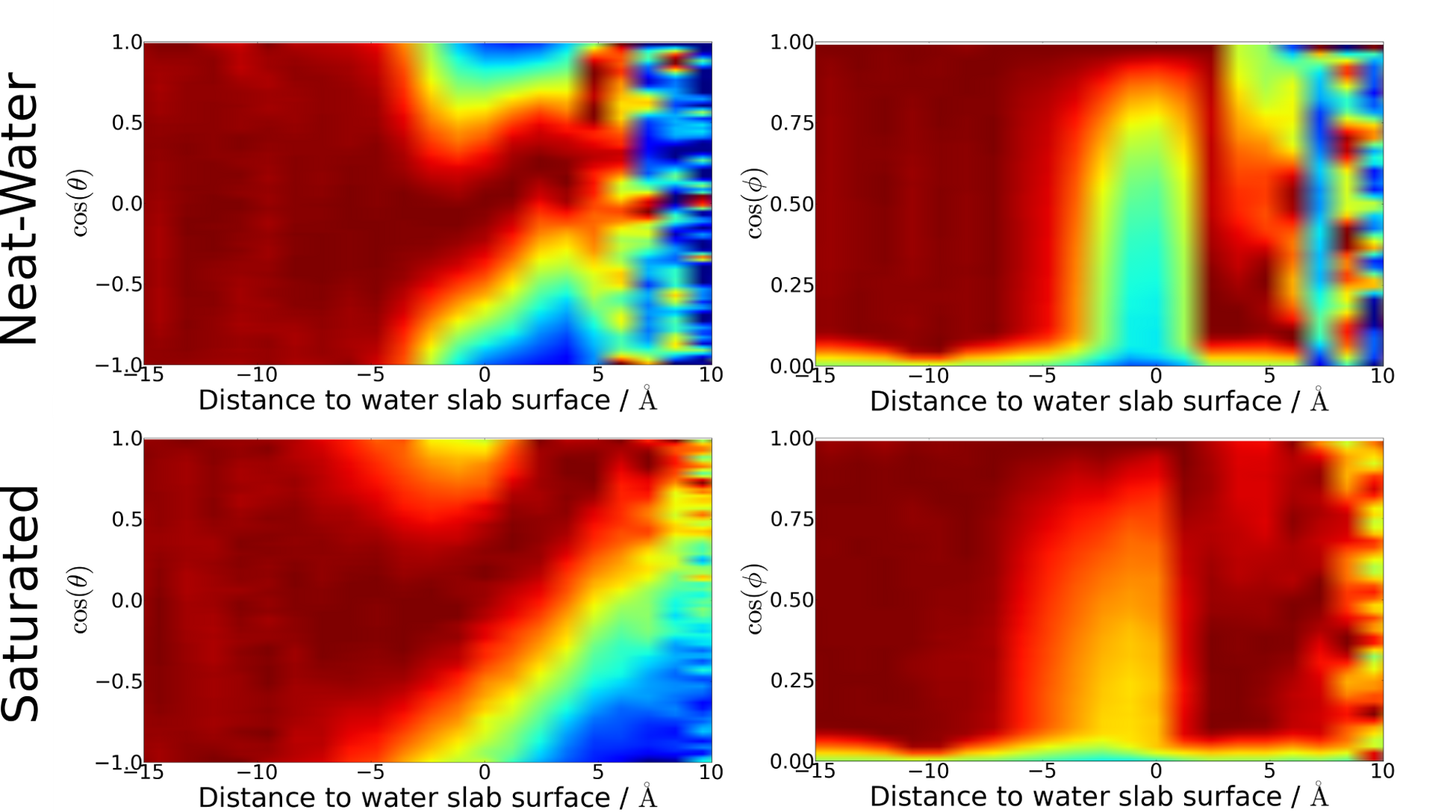
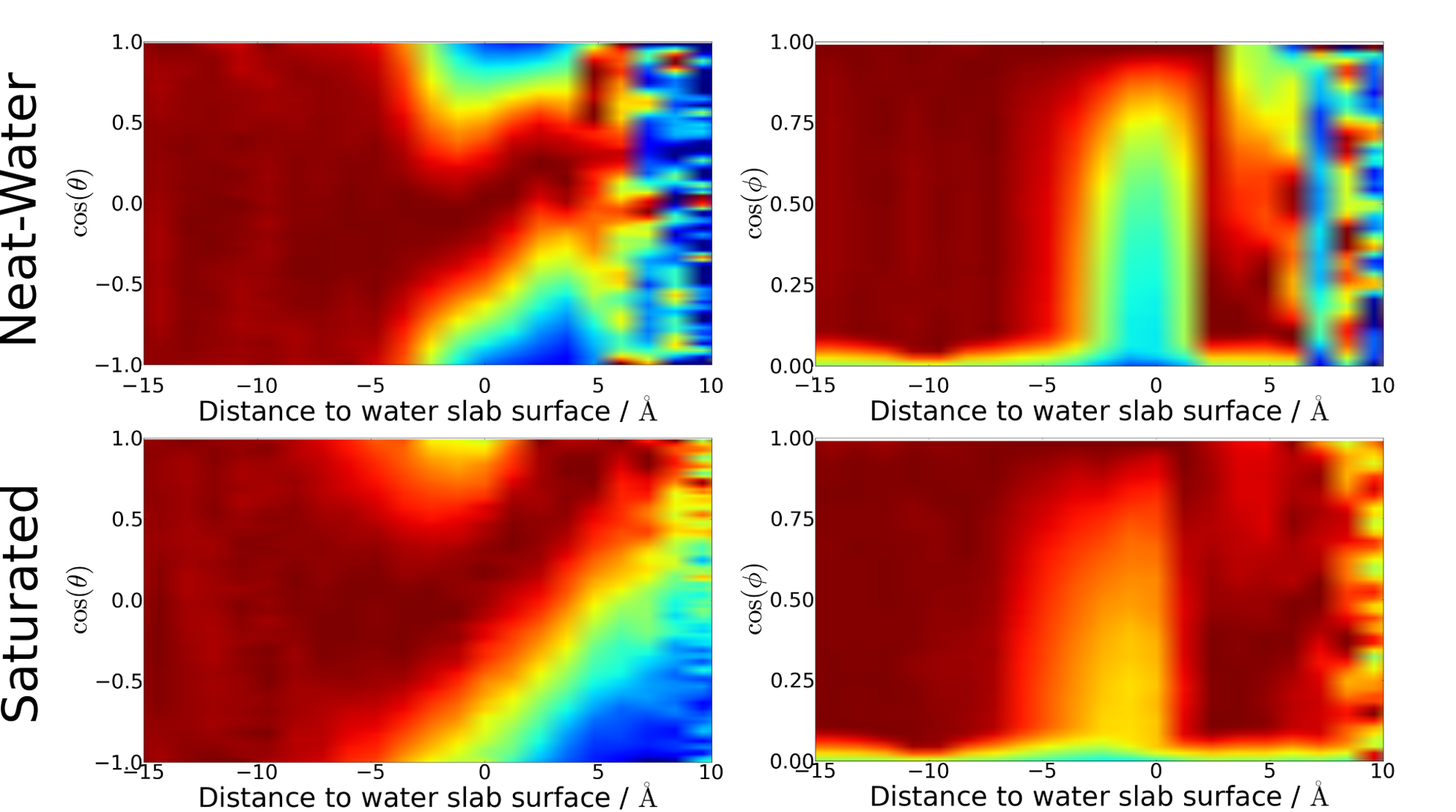
fixed x-axis location on figures. Redid conclusions. Minor edits for the rest.

diff --git a/Conclusions.tex b/Conclusions.tex
@@ -2,11 +2,12 @@
 
 Gaseous adsorption on solid surfaces has been extensively studied over the past few decades with much learned about how molecular geometry and orientation of the adsorbate are influenced by the proximity of the solid slab.  For a liquid surface where the surface slab is no longer rigid but has molecules with considerable freedom of movement, the surface and approaching gas molecules can be active partners in attaining the optimal geometry and orientation necessary for adsorption and subsequent uptake.    And unlike the solid surface defined by a sharp plane, the interfacial region for the liquid-gas system is much broader, extends on either side of a defined center plane, and is host to a broad distribution of gas-liquid molecular geometries and orientations that change as the gas molecules transit through the interfacial region into the bulk liquid.  Although  our current molecular level understanding of  the complex dances that these molecules play in this fluid interfacial region is in its infancy, emerging studies such as these are beginning to provide unique new insights that are key to understanding many  environmentally important processes at aqueous surfaces.
 
-Presented herein are the results of several classical molecular dynamic simulations that focus on understanding how surface water molecules and adsorbing \suldiox~gas molecules twist and turn as the gas transits the interfacial region. The computational studies emulate and expand on the experimental spectroscopic studies from this laboratory which have found \suldiox~surface complexation at a water surface.\cite{Tarbuck2005,Tarbuck2006,Ota2011}  These spectroscopic studies show clear evidence of \suldiox-water surface complexation but details about this surface complex could only be inferred from spectral changes in the surface water spectrum since \suldiox~could not be monitored directly.   These simulations do not have that limitation and hence can provide information about the behavior of both surface partners and in particular, how their proximity influences the orientation behavior of each other.  The orientational information obtained in these simulations are provided via calculated depth profiles which show the molecular distribution of orientations of the two different interfacial molecules throughout the dimensions of the interfacial region.
+Presented herein are the results of several classical molecular dynamic simulations that focus on understanding how surface water molecules and adsorbing \suldiox~gas molecules twist and turn as the gas adsorbs and transits the interfacial region. The computational studies emulate and expand on the experimental spectroscopic studies from this laboratory which have found \suldiox~surface complexation at a water surface.\cite{Tarbuck2005,Tarbuck2006,Ota2011}  These spectroscopic studies show clear evidence of \suldiox-water surface complexation but details about this surface complex could only be inferred from spectral changes in the surface water spectrum since \suldiox~could not be monitored directly.   These simulations do not have that limitation and hence can provide information about the behavior of both surface partners and in particular, how their proximity influences the orientation behavior of each other.  The orientational information obtained in these simulations are provided via calculated depth profiles which show the molecular distribution of orientations of the two different interfacial molecules throughout the dimensions of the interfacial region.
 
 The simulations described herein show that gaseous \suldiox~quickly adsorbs to the water surface and continues to bind until a complete surface coverage is reached. Surface waters reorient in the presence of adsorbed \suldiox. The waters at the interface of a neat-water surface tend to lay flatter to the surface than when a saturating layer of \suldiox~is present. The waters interacting with the layer of adsorbed \suldiox~orient more perpendicularly to the interface, and further expose their ``free-OH'' uncoupled bonds for interactions with \suldiox, and hydrate complex formation. Furthermore, we have found that surface waters underneath a blanket layer of adsorbed \suldiox~will penetrate further into the gas phase, allowing for greater mobility of waters away from the aqueous bulk in the presence of \suldiox.
 
-Through these simulations we characterize the orientational behavior of \suldiox~during and after adsorption. Our equilibrium neat-water simulations show that a single \suldiox~molecule, representing a low concentration, has a high surface affinity. At a high \suldiox~concentration in the saturated systems, \suldiox~molecules are also surface active, and are found further out of the water phase than at the lower concentration. These \suldiox~form a bound layer of molecules that crowd the surface and interact with the surface waters. The orientation of \suldiox~on the water surface was found to be similar for both low and high concentrations. Those \suldiox~molecules at or below the surface strongly orient with the sulfur atom pointed in towards the water bulk, and the oxygen atoms out towards the gas phase. The \suldiox~slightly above the water surface loses the orientational preference within 10 $\AA$ and those further from the water are more isotropically oriented. Figure \ref{fig:so2-surface-cartoon} depicts what the neat-water and saturated surfaces might look like for both \suldiox~and \wat~orientations and locations.
+Through these simulations we also characterize the orientational behavior of \suldiox~during and after adsorption. Our equilibrium neat-water simulations show that a single \suldiox~molecule, representing a low concentration, has a high surface affinity. At a high \suldiox~concentration in the saturated systems, \suldiox~molecules are also surface active, and are found further out of the water phase than at the lower concentration. These \suldiox~molecules form a bound layer that crowds the surface and interacts with the surface waters. The orientation of \suldiox~on the water surface was found to be similar for both low and high concentrations. Those \suldiox~molecules at or below the surface water location strongly orient with the sulfur atom pointed in towards the water bulk, and the oxygen atoms out towards the gas phase. The \suldiox~molecules slightly above the water surface lose this net orientation within 10 \angs. Those  molecules further from the water are more isotropically oriented. Figure \ref{fig:so2-surface-cartoon} depicts what the neat-water and saturated surface molecules look like for both \suldiox~and \wat~orientations and locations based on the calculations.
+
 
 \begin{figure}[h!]
 	\begin{center}
@@ -16,6 +17,8 @@ Through these simulations we characterize the orientational behavior of \suldiox
 	\end{center}
 \end{figure}
 
-Steered molecular dynamics simulations were used to model the behavior of an adsorbing \suldiox~as it moves from the gas phase above the water down through the surface and into the bulk. The results for the transit through the interface show that in both systems of low and high \suldiox~concentration an adsorbing \suldiox~has very similar orientation to those already bound to the water surface. The \suldiox~reorients as it makes its first contact with the water interface. Within 5 $\AA$ of the surface the \suldiox~is mostly oriented with its sulfur towards the water phase. The \suldiox~pulled further into the water bulk retains its orientation until it is past the interfacial region and then isotropically orients with the bulk water.
+Steered molecular dynamics simulations were used to model the behavior of an adsorbing \suldiox~as it moves from the gas phase above the water down through the surface and into the bulk. The \suldiox~reorients as it makes its first contact with the water interface. Within 5 \angs~of the surface the \suldiox~is mostly oriented with its sulfur towards the water phase. The results for the transit through the interface show that in both systems of low and high \suldiox~concentration an adsorbing \suldiox~near the interface has very similar orientation to those molecules already bound to the water surface. The \suldiox~pulled further into the water bulk retains its orientation until it is past the interfacial region and then isotropically orients with the bulk water.
 
-Having now examined the transition of \suldiox~from the gas to adsorbed aqueous phases, we are better able to research the many questions remaining of adsorption and interfacial chemistry of gas molecules. What species form during the adsorption transition, and how do molecular properties affect the process? Can we form a theory that will more fully explain the transit of many small molecules of environmental and industrial interest? This study is one of several characterizing \suldiox~adsorption and behavior on aqueous surfaces. We plan to report further results of ongoing computational simulation and experimental studies regarding temperature and chemical constituent effects on atmospherically relevant water surfaces.
+These studies provide a starting point for future studies in this area that seek to understand how gases of different concentrations and chemical composition adsorb and transit across an aqueous/air interface. Obtaining such knowledge will be invaluable for understanding many environmental aerosol and land water systems where gaseous uptake at a water surface does not conform to expectations. In such cases, surface complexes are often invoked with little direct evidence of the formation of such complexes. Investigations of these and related low-temperature effects will be forthcoming in future publications.
+
+%Having now examined the transition of \suldiox~from the gas to adsorbed aqueous phases, we are better able to research the many questions remaining of adsorption and interfacial chemistry of gas molecules. What species form during the adsorption transition, and how do molecular properties affect the process? Can we form a theory that will more fully explain the transit of many small molecules of environmental and industrial interest? This study is one of several characterizing \suldiox~adsorption and behavior on aqueous surfaces. We plan to report further results of ongoing computational simulation and experimental studies regarding temperature and chemical constituent effects on atmospherically relevant water surfaces.

diff --git a/Methods.tex b/Methods.tex
@@ -31,9 +31,9 @@ A separate set of SMD simulations were performed with tethering of one of the \s
 	
 Figure \ref{fig:density-flaw} demonstrates the problem of surface location drift during a simulation. Figure \ref{fig:density-flaw}A shows the density profile of water and \suldiox~over the course of one of the 10 ns trajectories used in this work using the original uncorrected coordinates of the system taken from the raw atomic positions of the molecular dynamics data output. The water density profile and location (thin gray line in Figure \ref{fig:density-flaw}A) is produced by averaging the instantaneous density profile at each time step in the simulation over all the time steps. The water profile was then fit to a $\tanh$ function (black line) to extract the position and width parameters of the water surface. The fitted Gibbs dividing surface has a width of 3.77\angs, which is comparable to values reported for similar neat-water systems.\cite{Dang1997,Hore2008} A bulge in the gas-phase ($\leq 52$\angs) side of the water density profile is indicative of the drift of the water slab over the course of the trajectory. Thus the calculated location and width from the $\tanh$ line fit are not accurate over long trajectories for defining a stationary reference point. 
 
-	To overcome this problem we define the water surface location by calculating a reference location at each time step by averaging the positions of the waters contained in the topmost monolayer. This provides us with a consistent and intuitive reference point in the simulations to which we relate our analyses, but does not increase the computational burden. The number of waters included in the averaging is determined by taking a few issues into account. First, counting the waters found in the topmost cross-section of the water slab over several time steps indicated between 65-75 waters that established a full monolayer. This was done by a visual inspection of the slab using the VMD MD visualization package.\cite{HUMP96} Alternatively, assuming a spherical model of water with a radius of 2.2\angs~(the typical length of a bulk-water hydrogen bond), two layers of hexagonally tight-packed spheres yielded a similar number of surface water molecules. Increasing the number of waters used in calculating the surface location diminishes the effects of the few waters that briefly rise above the surface into the gas phase, stabilizing both the surface position and thickness values. Taking the close-packed model as a maximum number of waters fit into a flat surface, the topmost 70 water molecules were used for calculating instantaneous water surface locations for each simulation step. 
+	To overcome this problem we define the water surface location by calculating a reference location at each time step by averaging the positions of the waters contained in the topmost monolayer. This provides a consistent and intuitive reference point in the simulations to which we relate our analyses, but does not increase the computational burden. The number of waters included in the averaging is determined by taking a few issues into account. First, counting the waters found in the topmost cross-section of the water slab over several time steps indicated between 65-75 waters that established a full monolayer. This was done by a visual inspection of the slab using the VMD MD visualization package.\cite{HUMP96} Alternatively, assuming a spherical model of water with a radius of 2.2\angs~(the typical length of a bulk-water hydrogen bond), two layers of hexagonally tight-packed spheres yielded a similar number of surface water molecules. Increasing the number of waters used in calculating the surface location diminishes the effects of the few waters that briefly rise above the surface into the gas phase, stabilizing both the surface position and thickness values. Taking the close-packed model as a maximum number of waters fit into a flat surface, the topmost 70 water molecules were used for calculating instantaneous water surface locations for each simulation step. 
   
-This method for finding the outer monolayer location was implemented, and the surface location is plotted as a function of simulation time in Figure \ref{fig:density-flaw}B. It is apparent from the surface location plot that the water slab location, and thus the surface location, drifts over the 10 ns, spanning approximately 12 $\AA$. However, the maximum standard deviation of the positions of the waters comprising the surface layer at each time step is only 1.85 $\AA$. Consequently, all depth locations in our analyses are calculated relative to the instantaneous surface location at the corresponding time step of the trajectories.
+This method for finding the outer monolayer location was implemented, and the surface location is plotted as a function of simulation time in Figure \ref{fig:density-flaw}B. It is apparent from the surface location plot that the water slab location, and thus the surface location, drifts over the 10 ns, spanning approximately 12 \angs. However, the maximum standard deviation of the positions of the waters comprising the surface layer at each time step is only 1.85 \angs. Consequently, all depth locations in our analyses are calculated relative to the instantaneous surface location at the corresponding time step of the trajectories.
 
 \begin{figure}[h!]
 	\begin{center}
@@ -74,18 +74,3 @@ Knowing the molecular orientation of both the \wat~and \suldiox~is a prerequisit
 	\end{center}
 \end{figure}
 
-%\subsection{Hydrate Complex Analysis}
-
-%During the adsorption process of a gaseous \suldiox~moving in towards a water surface hydrate complexes are formed as the waters bind to the molecule. Computationally, there are various methods to determine hydrate complex formation. The most simple metric is to count the number of hydrogen bonds formed from the \suldiox~to neighboring molecules. This method can be furthered extended to also include the strength of those bonding interactions by additionally reporting the bondlengths to the hydrogen bonding partners. Longer bondlengths are typical of weaker bonds, and this method is used in this work to identify the bonding environment of the \suldiox~during solvation.
-
-%A simple count of hydrogen bonds is telling of the interactions and environments of an adsorbing \suldiox. However, a more sophisticated analysis is needed to fully characterize the geometry of any complexes that form. In this work a graph theoretical method has been used to identify hydrate complexes that form cyclic structures in addition to those that form more simple hydrogen bonding geometries. Previously published works have detailed graph theory for use in molecular systems, and have used graph theoretical methods to describe ice and water clusters, structural energies, as well as in the study of relationships in biological systems.\cite{Huber2007,Shi2005,Radhakrishnan1991,Anick2002} As such, we will not present here a review of the basic graph theoretical details that are well documented in the referenced works. As shown in Figure \ref{fig:so2-complex-graph}, the atoms of a \suldiox~and its nearest neighbors are represented as a set of verrtices, with the covalent and hydrogen bonds between them forming the edges of a graph.
-
-%We present here a technique for determining bonding cycles in a hydrate complex, but this technique is general enough to be applied to any graph representation of simple molecular systems. The first step in the determination of cycles is translating the atoms (vertices) and bonds (edges) to a graph. Figure \ref{fig:so2-complex-graph} shows the procedure visually, where here the root vertex of the graph is the \suldiox-sulfur, and each atom is numbered by the distance, in atoms, to the root vertex. We use only the closest neighboring water molecules that may take part in a cyclic complex in building the graph. After forming the graph, a breadth-first search (BFS) is performed starting at the root vertex.\cite{Knuth1997} The BFS algorithm uses a coloring technique where all unexamined vertices are colored white, queued vertices are gray, and examined vertices are black. During the BFS, encountering a gray vertex as a target of an adjacent edge during examination indicates that a cycle has been found in the graph. At each vertex dequeue for examination, the parent of every vertex is recorded such that the lineage from gray target to root vertex can be reconstructed to determine the participating atoms in the cycle.
-
-%\begin{figure}[h!]
-%\begin{center}
-%\includegraphics[scale=1.0]{images/Cycles/so2complexfigure.png}
-%\caption{A \suldiox~and its nearest neighbors are represented as a graph of vertices and edges. The bonds are all given equal weights and the graph is undirected. The numbering shows the relative distance from any atom to the root node (\suldiox-sulfur 1), and also enumerates the iteration through the BFS process at which the atom is discovered. A BFS on this graph would result in discovering the doubly-bound hydrogen (5) as a gray target, and the gray source would be either of the connected oxygens (4). At each iteration the predecessor in the BFS is recorded in order to reconstruct the connectivity of the cycle. This cycle is composed of 8 atoms, and 3 molecules}
-%\label{fig:so2-complex-graph}
-%\end{center}
-%\end{figure}

diff --git a/Introduction.tex b/Introduction.tex
@@ -2,10 +2,8 @@
 
 The doorway to the uptake of a gas by an aqueous solution is the water surface. Although we know much about the behavior of a gas on either side of that entrance, far less is known about how that surface acts to attract, facilitate, or thwart the transit of a molecule between the two bulk phases. What is the interplay between the gas and surface water molecules, and when does one begin to influence the behavior of the other? What species form during gas adsorption onto liquid surfaces, and what are the intermediary steps?  Is molecular orientation of either the gas or surface molecules a factor in the adsorption process? Are specific gas or liquid molecular orientations necessary for gaseous adsorption?  Experimental studies to address such questions are valuable but do not provide the full resolution necessary to determine the geometries of adsorbing gases, or to determine the orientations of the molecules at the liquid surface near the adsorption site. This type of information can be determined computationally, and when coupled to the experimental studies can provide a more comprehensive picture of the gas-liquid surface adsorption process.
 
-An important gas for developing a picture of gaseous adsorption and entry into a water surface is \suldiox.\cite{Lattanzi2010,Shah2011,Tzivian2011,Johns2011,Faloona2009,Jurkat2010,Wu2011} Sulfur dioxide enters the environment as an important industrial product, and also naturally through terrestrial processes. Atmospheric dust particles and gases have been implicated in the oxidation of \suldiox, and act as reaction surfaces for chemical mechanisms that are still poorly understood.\cite{Baltrusaitis2011,Rubasinghege2010,Li2007} \suldiox~acts as a major component of atmospheric pollution, and is a precursor to acid rain formation, and cloud nucleation. Its high solubility in water makes \suldiox~an integral compound in many aqueous atmospheric reactions, as well. 
+An important gas for developing a picture of gaseous adsorption and entry into a water surface is sulfur dioxide.\cite{Lattanzi2010,Shah2011,Tzivian2011,Johns2011,Faloona2009,Jurkat2010,Wu2011} \suldiox~enters the environment as an important industrial product, and also naturally through terrestrial processes. Atmospheric dust particles and gases have been implicated in the oxidation of \suldiox, and act as reaction surfaces for chemical mechanisms that are still poorly understood.\cite{Baltrusaitis2011,Rubasinghege2010,Li2007} \suldiox~acts as a major component of atmospheric pollution, and is a precursor to acid rain formation, and cloud nucleation. Its high solubility in water makes \suldiox~an integral compound in many aqueous atmospheric reactions, as well.  Obtaining a more complete picture of the \suldiox~adsorption process is important for understanding gaseous adsorption of this environmentally important gas on water and aerosol surfaces as well as being a model system for understanding the more general nature of gases at aqueous interfaces.
 
-In this work we provide a molecular picture of \suldiox~adsorption on a water surface.  This study demonstrates the strong orientational effect of surface water molecules on adsorbing gas during the approach and entry into the surface region at both high and low \suldiox~surface concentrations.  Obtaining a more complete picture of this adsorption process is important for understanding gaseous adsorption of this environmentally important gas on water and aerosol surfaces as well as being a model system for understanding the more general nature of gases at aqueous interfaces.
-
-These computational studies complement and significantly expand the picture developed in our recent experimental vibrational sum frequency spectroscopy (VSFS) studies of \suldiox~adsorption of aqueous solutions of various compositions and temperatures,\cite{Tarbuck2005,Tarbuck2006} and the subsequent studies using both classical and ab initio simulations.  These experimental studies showed that an \suldiox~surface hydrate complex forms when an aqueous surface is exposed to \suldiox~gas. The computational study by Baer et al.\cite{Baer2010} then made a series of predictions of the specific nature of the hydrated complex through classical and ab initio simulations. That work developed a detailed picture of the nature of the \suldiox~surface complex with water, and related it to the surface water OH vibrational IR spectra.  The most recent experimental studies have shown that whereas the binding of gaseous \suldiox~to a water surface is greatly enhanced at cold temperatures, the reversibility of the adsorption process remains.  Complimentary experiments showed that low pH aqueous environments inhibit the bulk reactions of \suldiox, but do not affect the surface binding or its reversibility.  What is apparent in the VSF spectra obtained in all of these experiments is the tendency of water to reorient upon surface bonding, with the effect becoming more pronounced at high \suldiox~surface concentrations. Since the \suldiox~molecule was not specifically probed, conclusions on how \suldiox~bonding contributes to reorienting surface water molecules and the orientation of \suldiox~itself upon approach and surface bonding could only be inferred. 
+In this work we provide a molecular picture of \suldiox~adsorption on a water surface.  This study demonstrates the strong orientational effect of surface water molecules on the adsorbing gas during the approach and entry into the surface region at both high and low \suldiox~surface concentrations.  These computational studies complement and significantly expand the picture developed in our recent experimental vibrational sum frequency spectroscopy (VSFS) studies of \suldiox~adsorption of aqueous solutions of various compositions and temperatures,\cite{Tarbuck2005,Tarbuck2006} and the subsequent studies using both classical and ab initio simulations.  These experimental studies showed that an \suldiox~surface hydrate complex forms when an aqueous surface is exposed to \suldiox~gas. The computational study by Baer et al.\cite{Baer2010} then made a series of predictions of the specific nature of the hydrated complex through classical and ab initio simulations. That work developed a detailed picture of the nature of the \suldiox~surface complex with water, and related it to the surface water OH vibrational IR spectra.  The most recent experimental studies have shown that whereas the binding of gaseous \suldiox~to a water surface is greatly enhanced at cold temperatures, the reversibility of the adsorption process remains.\cite{Ota2011}  Complementary experiments showed that low pH aqueous environments inhibit the bulk reactions of \suldiox, but do not affect the surface binding or its reversibility.  What is apparent in the VSF spectra obtained in all of these experiments is the tendency of water to reorient upon surface bonding, with the effect becoming more pronounced at high \suldiox~surface concentrations. Since the \suldiox~molecule was not specifically probed, conclusions on how \suldiox~bonding contributes to reorienting surface water molecules and the orientation of \suldiox~itself upon approach and surface bonding could only be inferred. 
 
 To fill this void, the computational studies described herein provide a detailed picture of the orientation of both \suldiox~and surface water molecules during the adsorption process.  The depth profiling studies which examine the orientation of both species during the approach and entry of the gas into the interfacial region are obtained using equilibrium and steered (SMD) classical molecular dynamics simulations. The latter approach involves steering a gas molecule into the aqueous phase, and characterizing its molecular orientation as it transits through the interfacial region.  This unique approach enables new insights into the behaviors of gas molecules as they move near to liquid water. We also simulate how \suldiox~adsorption occurs on a water surface saturated with adsorbed \suldiox, analogous to the conditions of the \suldiox~experimental studies recently performed.\cite{Ota2011} The results of this study provide an intimate perspective on the adsorption of \suldiox~at an aqueous surface, and a more complete picture of gaseous adsorption to liquid interfaces.
